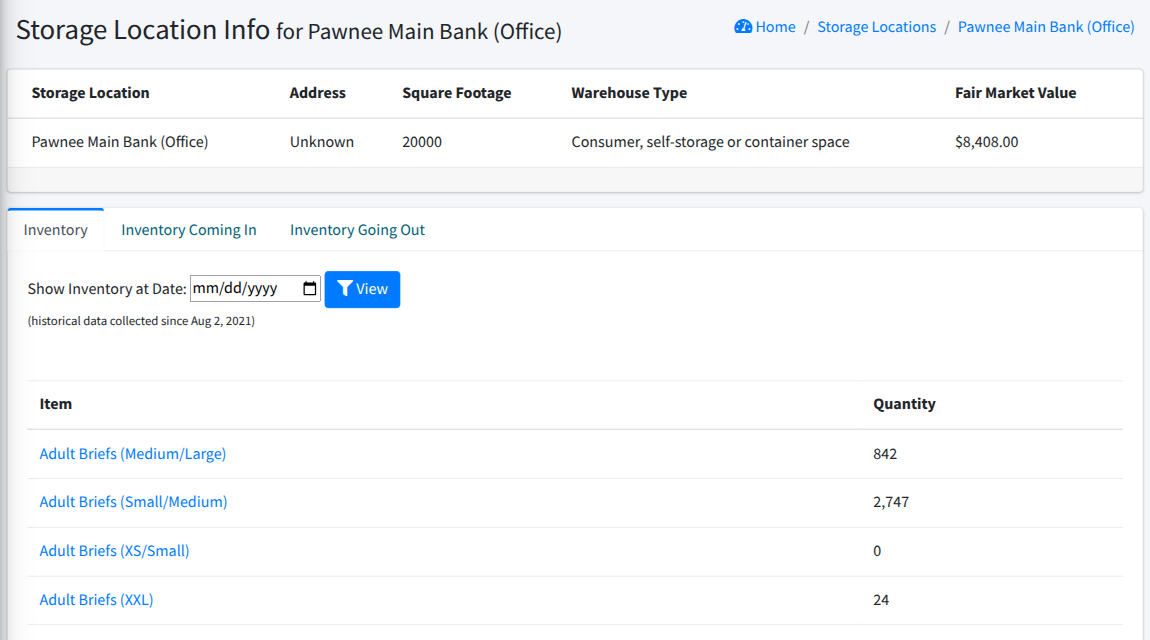
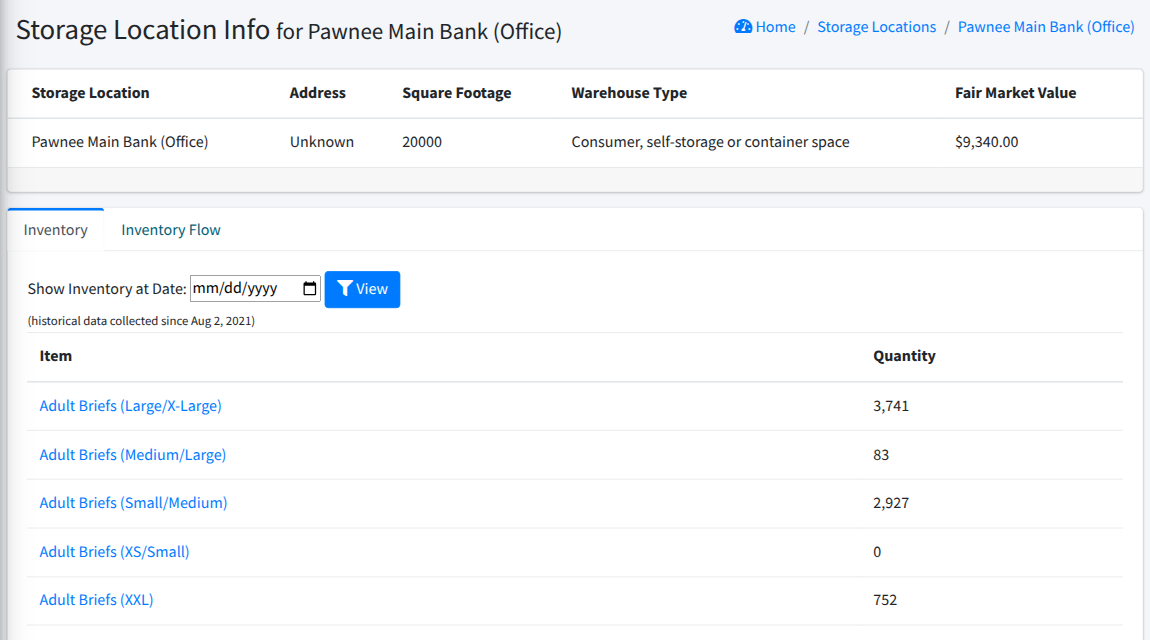
User guide: screenshot the Inventory Flow tab
Add an annotated screenshot of the Inventory Flow tab (tab, date range,
Filter), and re-shoot the Inventory tab screenshot, which still showed the
old Inventory Coming In / Going Out tabs. Both taken from seed data.

Claude-Session: https://claude.ai/code/session_014FSHhMV2oCu9RE8hpg29ey

diff --git a/docs/user_guide/bank/inventory_storage_locations.md b/docs/user_guide/bank/inventory_storage_locations.md
@@ -32,7 +32,10 @@ That shows the inventory at the beginning of the day.
 ![Storage Location - Inventory tab](images/inventory/inventory_storage_location_view_inventory.png)
 
 ### Inventory Flow
-This shows how the quantity of each item at the Storage Location changed over a date range.  Choose the range in "Date Range" and click "Filter".  For each item you see:
+This shows how the quantity of each item at the Storage Location changed over a date range.  Click the "Inventory Flow" tab (1), choose the range in "Date Range" (2), and click "Filter" (3).
+![Storage Location - Inventory Flow tab](images/inventory/inventory_storage_location_view_inventory_flow.png)
+
+For each item you see:
 - Quantity at Start: how much was there at the start of the range
 - Quantity In: what came in during the range ([Purchases](essentials_purchases.md), [Donations](essentials_donations.md), [Transfers](inventory_transfers.md) from other Storage Locations, and [Kit](inventory_kits.md) allocations and de-allocations that add inventory)
 - Quantity Out: what went out during the range ([Distributions](essentials_distributions.md), [Transfers](inventory_transfers.md) to other Storage Locations, and [Kit](inventory_kits.md) allocations and de-allocations that remove inventory)
